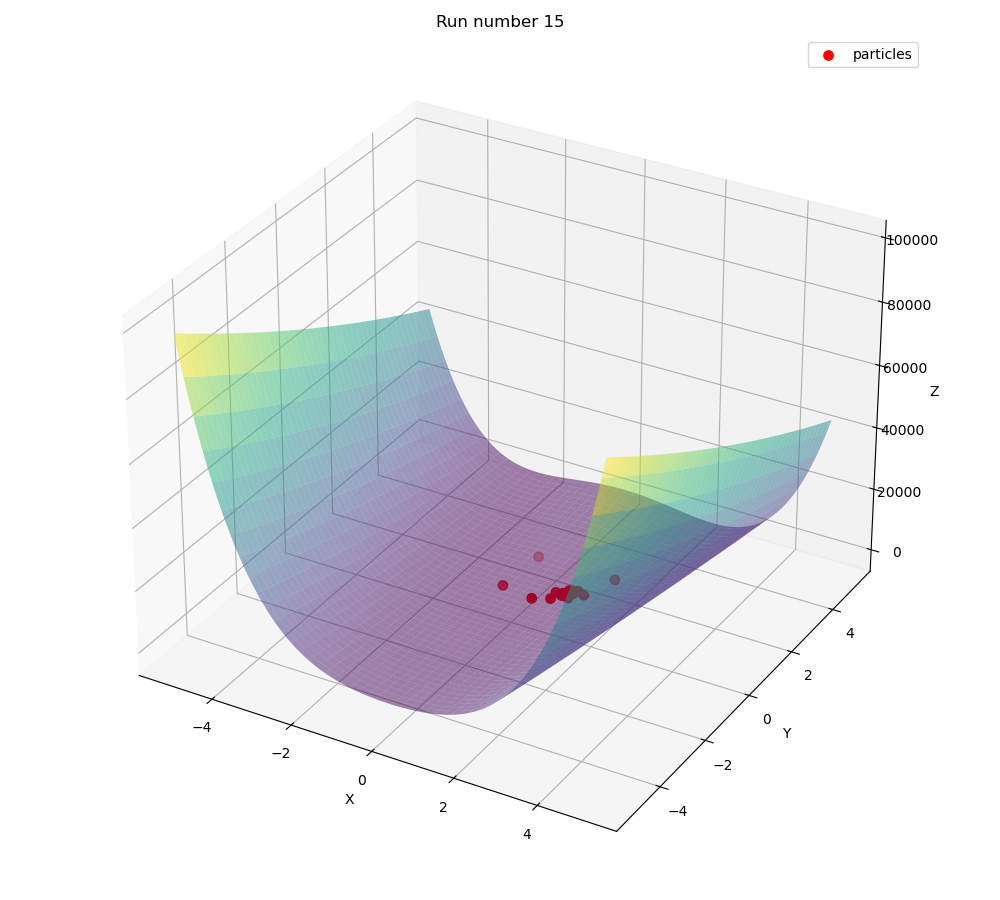
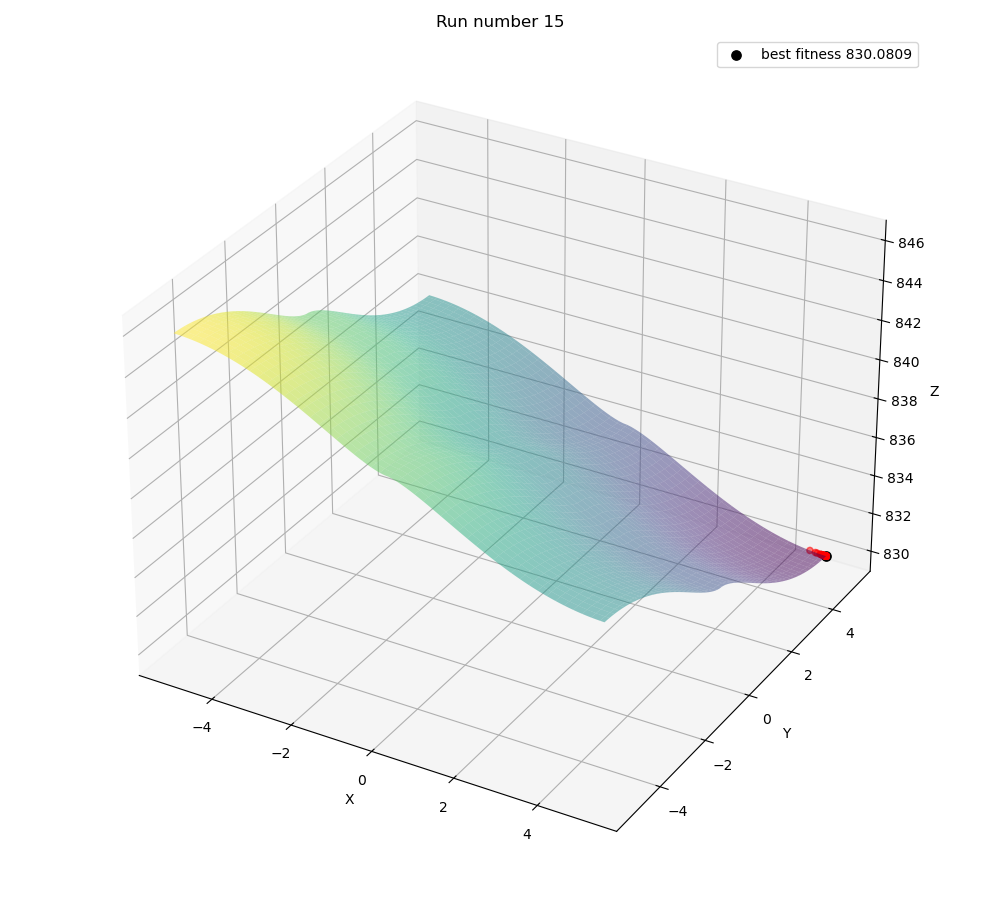
Last changes

diff --git a/ParticleSwarm/drw.py b/ParticleSwarm/drw.py
@@ -8,7 +8,7 @@ import glob
 import platform
 import subprocess
 
-def draw_frame(particles, objective_func, run_num, path):
+def draw_frame(particles, g_best_fit, best_pos , objective_func, run_num, path):
     num_dimensions = 2
     # Default bounds
     lb = [-5.12, -5.12]
@@ -19,7 +19,10 @@ def draw_frame(particles, objective_func, run_num, path):
     plot_3d_function(ax, objective_func, lb, ub)
     positions = np.array([p.position for p in particles])
     z = np.array([p.evaluate(objective_func, minimize) for p in particles])
-    ax.scatter(positions[:, 0], positions[:, 1], z, color='red', s=45, label='particles')
+    ax.scatter(positions[:, 0], positions[:, 1], z, color='red', s=20)
+    ax.scatter(best_pos[0], best_pos[1], g_best_fit, color='black', s=45, label=f'best fitness {g_best_fit:0.4f}')
+
+    # Add a text label for the global best fitness
     ax.legend()
     ax.set_title(f"Run number {run_num}")
     plt.tight_layout()
@@ -33,7 +36,7 @@ def draw_frame(particles, objective_func, run_num, path):
                     os.unlink(file_path)
         else:
             os.makedirs(path)
-    plt.savefig(f'pso_figures/{run_num}.png')
+    plt.savefig(f'ParticleSwarm/pso_figures/{run_num}.png')
     plt.close(fig)
        
 def create_gif_from_images(objective_func, optimization_type, folder_path, duration=5):
@@ -46,7 +49,10 @@ def create_gif_from_images(objective_func, optimization_type, folder_path, durat
     """
     # Get list of PNG files in the folder, sorted by name
     images = sorted(glob.glob(f"{folder_path}/*.png"), key=lambda x: int(os.path.splitext(os.path.basename(x))[0]))
-    output_filename = f"{objective_func.__name__}_{optimization_type}.gif"
+    folder_name = "ParticleSwarm/Animated"
+    if not os.path.exists(folder_name):
+        os.makedirs(folder_name)
+    output_filename = f"ParticleSwarm/Animated/{objective_func.__name__}_{optimization_type}.gif"
     # Read in all the images
     image_list = []
     for filename in images:
@@ -60,7 +66,7 @@ def create_gif_from_images(objective_func, optimization_type, folder_path, durat
     imageio.mimsave(output_filename, image_list, duration=duration, loop=0)  # loop=0 makes it repeat indefinitely
     print(f"Repeating GIF created successfully: {output_filename}")
 
-    gif_path = 'output_filename.gif'
+    gif_path = f"{objective_func.__name__}_{optimization_type}.gif"
     
     if os.path.exists(gif_path):
         if platform.system() == 'Darwin':  # macOS

diff --git a/ParticleSwarm/animate.py b/ParticleSwarm/animate.py
@@ -8,15 +8,16 @@ from plotted_pso import enumerate_functions
 from drw import create_gif_from_images
 
 def start_anim(objective_func):
-    path = 'pso_figures'
+    path = 'ParticleSwarm/pso_figures'
     num_dimensions = 2
-    num_particles = 50
+    num_particles = 30
     tolerance = 0.01
     lb = [-5.12, -5.12]
     ub = [5.12, 5.12]
-    max_iterations = 60
+    max_iterations = 50
     isMinimized=True
-    setting = int(input("   1. Minimize Function\n  2. Maximize Function\n"))
+    setting = int(input("   1. Minimize Function\n   2. Maximize Function\n"))
+    
     if setting == 1:
         isMinimized = True
     elif setting == 2:
@@ -24,12 +25,25 @@ def start_anim(objective_func):
     else:
         print("Invalid choice, using minimization instead")
     optimization_type = "minimization" if isMinimized else "maximization"
+    setting = int(input("   1. Custom Max Iterations\n   2. Default Max Iterations [50]\n"))
+    if setting == 1:
+        max_iterations = int(input("Enter number of max iteration: "))
+    elif setting == 2:
+        pass
+    else:
+        print("Invalid choice, using default value instead")
+    setting = int(input("   1. Custom Number of Particles\n   2. Default Number of Particles [30]\n"))
+    if setting == 1:
+        num_particles = int(input("Enter number of particles: "))
+    elif setting == 2:
+        pass
+    else:
+        print("Invalid choice, using default value instead")
     pso = ParticleSwarm(objective_func, lb, ub, num_dimensions, options={'SwarmSize': num_particles, 'MaxIterations': max_iterations, 'Tolerance':tolerance}, minimize= isMinimized, isanimated=True)
     pso.optimize(path = path)
     print("Creating your GIF")
     create_gif_from_images(objective_func=objective_func, optimization_type=optimization_type, folder_path  = path)
     print("Opening the generated GIF...")
-    
     exit()
 
 if __name__ == "__main__":
@@ -41,7 +55,6 @@ if __name__ == "__main__":
         if choice == '0':
             print("Exiting...")
             break
-        
         try:
             index = int(choice) - 1
             if 0 <= index < len(available_functions):

diff --git a/ParticleSwarm/plotted_pso.py b/ParticleSwarm/plotted_pso.py
@@ -3,55 +3,6 @@ import matplotlib.pyplot as plt
 from mpl_toolkits.mplot3d import Axes3D
 import importlib
 
-def start_anim(objective_func):
-    path = 'pso_figures'
-    num_dimensions = 2
-    num_particles = 20
-    tolerance = 0.001
-    lb = [-5.12, -5.12]
-    ub = [5.12, 5.12]
-    max_iterations = 60
-    minimize = True
-    pso = ParticleSwarm(objective_func, lb, ub, num_dimensions, options={'SwarmSize': num_particles, 'MaxIterations': max_iterations, 'Tolerance':tolerance}, minimize= minimize, isanimated=True)
-    pso.optimize(path = path)
-    print("Creating your GIF")
-    create_gif_from_images(path)
-    
-    exit()
-
-if __name__ == "__main__":
-    available_functions = enumerate_functions("funcs")
-    
-    while True:
-        choice = input("Choose a function to visualize (enter number or '0' to exit): ")
-        
-        if choice == '0':
-            print("Exiting...")
-            break
-        
-        try:
-            index = int(choice) - 1
-            if 0 <= index < len(available_functions):
-                func_name = available_functions[index]
-                objective_func = getattr(importlib.import_module("funcs"), func_name)
-                print(f"Visualizing {func_name} function...")
-                start_anim(objective_func)
-            elif index == len(available_functions):
-                print("Enter your custom function using 'x' as the input variable.")
-                print("Example: np.sin(x[0]) + np.cos(x[1])")
-                user_func_str = input("Function: ")
-                user_func = parse_user_function(user_func_str)
-                if user_func:
-                    start_anim(user_func)
-            else:
-                print("Invalid input. Please choose a number from the list.")
-                continue
-        except ValueError:
-            print("Invalid input. Please enter a number.")
-            continue
-
-
-
 def plot_3d_function(ax, objective_func, lb, ub, is_user_defined=False):
     x = np.linspace(lb[0], ub[0], 100)
     y = np.linspace(lb[1], ub[1], 100)

diff --git a/ParticleSwarm/psalg.py b/ParticleSwarm/psalg.py
@@ -75,14 +75,13 @@ class ParticleSwarm:
         # self.c2_start = self.options.get('SocialAdjustmentWeightStart', 0.5)
         # self.c2_end = self.options.get('SocialAdjustmentWeightEnd', 2.5)
         self.particles = [Particle(self.lb, self.ub, self.num_dimensions, self.minimize) for _ in range(self.swarm_size)]
-        
         self.global_best_position = np.random.uniform(self.lb, self.ub, self.num_dimensions)
         self.global_best_fitness = float('inf') if self.minimize else float('-inf')
         self.vmax = 0.08 * (self.ub - self.lb)
         self.tolerance = self.options.get('Tolerance', 1e-6)
     
     def send_to_animate(self, iterat, path):
-        draw_frame(self.particles, self.objective_func, run_num = iterat, path = path)
+        draw_frame(self.particles, self.global_best_fitness,self.global_best_position , self.objective_func, run_num = iterat, path = path)
     
     def optimize(self, verbose=True,path = None):
         if verbose:
